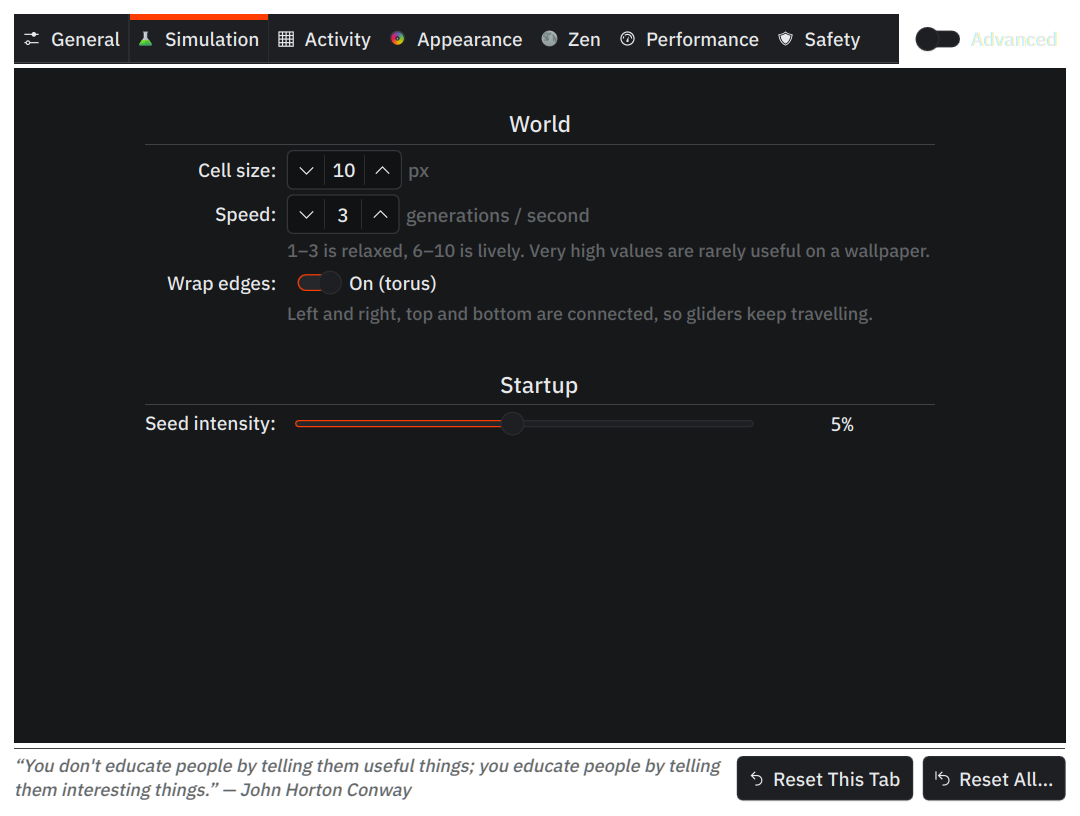
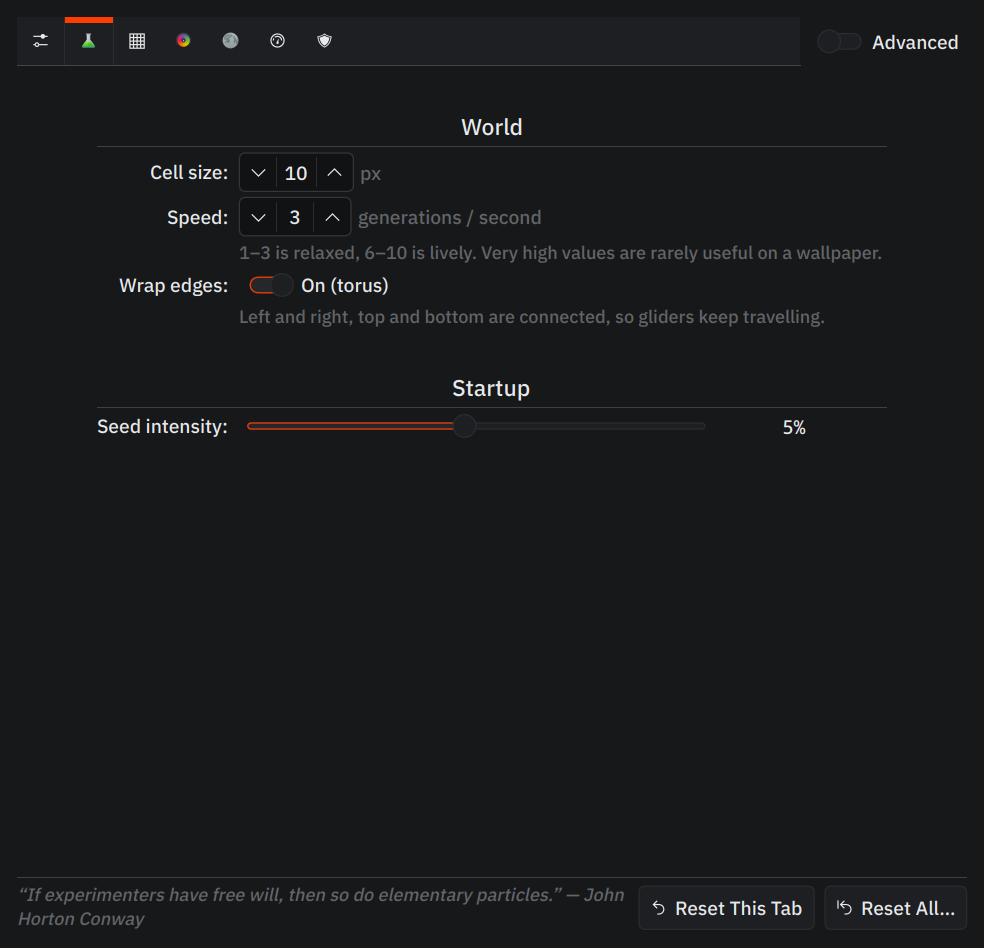
docs: consistent settings screenshots, fuller README; fix tab strip overlap

diff --git a/contents/ui/config.qml b/contents/ui/config.qml
@@ -372,7 +372,7 @@ ColumnLayout {
                     required property var modelData
                     text: modelData.label
                     icon.name: modelData.icon
-                    display: root.width < Kirigami.Units.gridUnit * 44 ? QQC2.AbstractButton.IconOnly : QQC2.AbstractButton.TextBesideIcon
+                    display: root.width < Kirigami.Units.gridUnit * 56 ? QQC2.AbstractButton.IconOnly : QQC2.AbstractButton.TextBesideIcon
                     width: implicitWidth
                     QQC2.ToolTip.visible: hovered
                     QQC2.ToolTip.text: modelData.label

diff --git a/README.md b/README.md
@@ -24,15 +24,30 @@ A lightweight Conway's Game of Life live wallpaper for KDE Plasma 6. The simulat
 
 ## Features
 
-- **GPU simulation:** no per-cell CPU loop, so it stays light even on older machines.
-- **Adaptive auto-injection:** the wallpaper watches which parts of the screen have gone quiet and adds gliders, growth seeds and small soups there, so it never settles into a few static blinkers. A Liveliness slider sets how busy it stays. The old timer-based injector is still available as Classic, and injection can be turned off.
-- **Zen mode:** slow breathing tempo, soft trails, gentle injections and an optional evening dim.
-- **Profiles:** Zen, Balanced, Lively.
-- **48 palettes:** Catppuccin, Dracula, Nord, Gruvbox, Tokyo Night, Rose Pine, Kanagawa, Game Boy, Commodore 64 and more, plus custom colors.
-- **Clock overlay:** 24-hour or 12-hour with optional AM/PM. Keeps ticking while paused (can be turned off).
+- **GPU simulation:** the world lives in a texture and a shader computes each generation, so there is no per-cell CPU loop. It stays light even on older machines.
+- **Adaptive auto-injection:** classic Life settles into a few static blinkers and still lifes. Konway reduces the grid to a small activity map on the GPU, finds the areas that have gone quiet, and responds there: growth seeds (R-pentomino, Acorn and other long-lived patterns) in empty areas, gliders drifting across empty space, small random soups, and gliders aimed at leftover clusters that have stopped changing. One **Liveliness** slider sets how busy the screen is kept. The older timer-based injector is still available as **Classic**, and injection can be switched off for a strictly deterministic run.
+- **Zen mode:** a relaxing profile with a slowly breathing tempo, long soft trails, gentle injections (mostly drifting gliders), and an optional evening dim on a schedule.
+- **Profiles:** Zen, Balanced and Lively set speed, cell size, injection and power options together.
+- **48 palettes:** Catppuccin, Dracula, Nord, Gruvbox, Tokyo Night, Rose Pine, Kanagawa, One Dark, Solarized Dark, Game Boy, Commodore 64 and more, plus fully custom colors and three cell styles (Square, Go Board, Circle).
+- **Clock overlay:** 24-hour or 12-hour with optional AM/PM and leading zero, in seven sizes. Cells never grow into it, and it keeps ticking while the simulation is paused (can be turned off).
 - **Any B/S rule:** Life (`B3/S23`), HighLife (`B36/S23`), Day & Night (`B3678/S34678`), Seeds (`B2/S`) and others.
 - **Mouse:** click places a glider, drag paints cells.
-- **Comfort options:** fading trails, contrast and saturation limits, speed limiter.
+- **Comfort options:** fading phosphor-style trails, contrast and saturation limits, and a speed limiter.
+- **Power:** pauses when Plasma is inactive (on by default) and lowers detail automatically if the grid gets too dense.
+
+## Settings tabs
+
+| Tab | What it controls |
+| --- | --- |
+| General | Profiles, reseed, clock (format, size, AM/PM, paused behavior) |
+| Simulation | Cell size, speed, wrap edges, startup seed intensity, B/S rules |
+| Activity | Auto-injection style and liveliness, mouse drawing, allowed pattern categories, pattern library |
+| Appearance | Palettes, cell style, fading trails, custom colors |
+| Zen | Breathing tempo, soft fades, gentle injections, evening dim |
+| Performance | Downscale, timing, pause when inactive |
+| Safety | Contrast, saturation and speed limits |
+
+The **Advanced** switch reveals rarely needed options on every tab. The window also works at small sizes.
 
 ## Install
 
